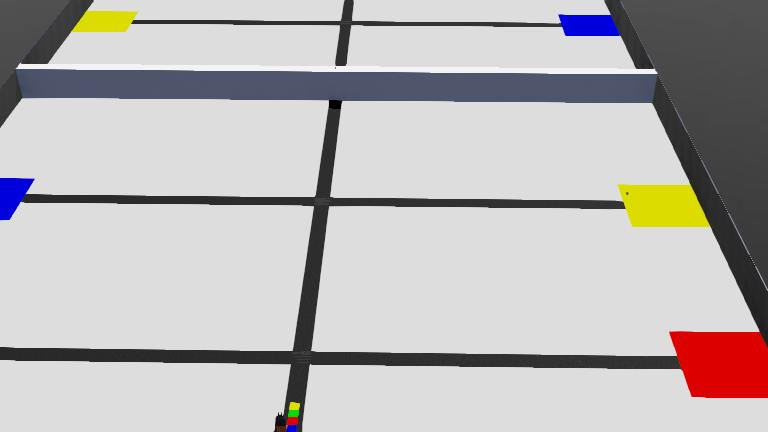
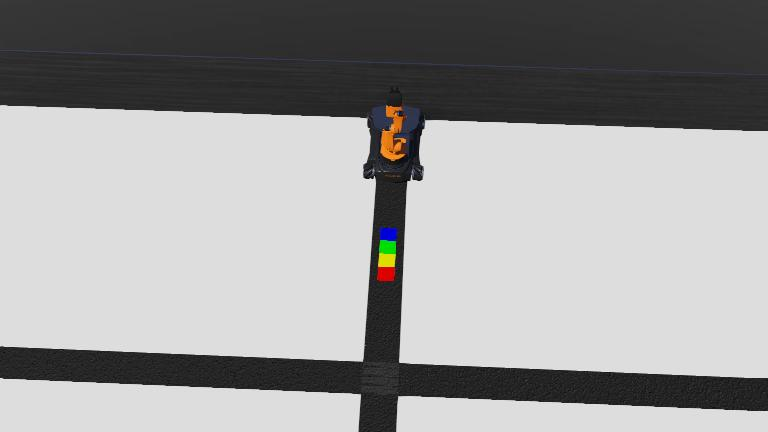
rotate + read color array from text file

diff --git a/controllers/project_cont_test_youbot/project_cont_test_youbot.py b/controllers/project_cont_test_youbot/project_cont_test_youbot.py
@@ -11,8 +11,11 @@ from time import time
 
 
 YOUBOT_MAX_VELOCITY = 12
-YOUBOT_WHEEL_RADUIS =  0.067
-YOUBOT_RADUIS = 0.5
+YOUBOT_WHEEL_RADIUS =  0.05
+LX = 0.228  
+LY = 0.158
+YOUBOT_RADIUS = LX + LY #math.sqrt((LX**2) + (LY**2))
+# YOUBOT_RADUIS = 0.277
 # PID Factors
 Kp = 0.01
 Kd = 0.01
@@ -48,6 +51,9 @@ class RobotController(Supervisor):
         
         self.plane_colors_1 = ['r','g','b','y']
         self.plane_colors_2 = ['r','g','b','y']
+        # توابع لتغير مصفوات الالوان حسب الملف النصي color.txt
+        # self.read_colors_from_file()
+        # self.change_plane_color()
         
         self.sensors = list(map(lambda v: self.getDevice(f"inf{v}"), range(1,5)))
         self.weights = [-1000,1000,1000,-1000]
@@ -88,7 +94,6 @@ class RobotController(Supervisor):
         # plane_node = self.getFromDef("plane_1")
         # color_field = plane_node.getField("appearance").getSFNode().getField("material").getSFNode().getField("emissiveColor").getSFColor()
         # print(color_field)
-        # self.change_plane_color()
         # print(color_field)
         # color_field.setSFColor([1, 0, 0]) 
         # print(color_field)
@@ -110,7 +115,22 @@ class RobotController(Supervisor):
             color = dict_map[self.plane_colors_1[index]]
             self.getFromDef(p).getField("appearance").getSFNode().getField("material").getSFNode().getField("emissiveColor").setSFColor(color)
             
-    
+        for index,p in enumerate([f'plane_{i}' for i in range(5,9)]) :
+            color = dict_map[self.plane_colors_2[index]]
+            self.getFromDef(p).getField("appearance").getSFNode().getField("material").getSFNode().getField("emissiveColor").setSFColor(color)
+            
+            
+    def read_colors_from_file(self):
+        try:
+            with open("color.txt", "r") as file:
+                lines = file.read().strip().splitlines()
+                self.plane_colors_1 = lines[0].split(',')
+                self.plane_colors_2 = lines[1].split(',')
+        except FileNotFoundError:
+            pass
+        
+        
+        
     def get_sensors_value(self):
         value = 0
 
@@ -193,11 +213,10 @@ class RobotController(Supervisor):
         if green != 0 and red != 0 and blue == 0 : self.color.append('yellow') if 'yellow' not in self.color else ...
         if len(r.color) == 4:self.camera.disable()
     
-    def run_motors_for_rotations_by_right_motor(
+    def run_motors_for_rotations_by_motor(
         self,
         rotations,
-        left_velocity,
-        right_velocity
+        velocity,
     ):
         """
             A funtion that will run two motors for specafic velocity
@@ -208,28 +227,35 @@ class RobotController(Supervisor):
         # calculate angle = number_of_rotations / 2 * PI
         angle = rotations * 2 * math.pi
         print('angle: ',angle)
-        # get first value of the sensor
-        curr = self.b_left_w_sensor.getValue()
-        print('curr: ',curr)
-        print('sesor live: ',self.b_left_w_sensor.getValue())
-        # set motors velocities
-        self.turn_cw(right_velocity)
+        
+        curr_front_left = self.f_left_w_sensor.getValue()
+        curr_back_left = self.b_left_w_sensor.getValue()
 
-        # do stepping until the differance between initial sensor value
-        # and current value is less than the required angle
-        while(self.b_left_w_sensor.getValue() - curr < angle):
+        self.turn_cw(velocity)
+
+        while True:
+            current_front_left = self.f_left_w_sensor.getValue()
+            current_back_left = self.b_left_w_sensor.getValue()
+            
+            
+            diff_front_left = current_front_left - curr_front_left
+            diff_back_left = current_back_left - curr_back_left
+
+        
+            avg_angle = (diff_front_left + diff_back_left) /2
+            
+            if abs(avg_angle) >= angle:
+                break
             print('move')
-            print('sesor live move: ',self.b_left_w_sensor.getValue())
+            print('sesor live move: ',avg_angle)
             self.step(self.timestep)
 
-        # reset motors velocities to zero
         self.set_motors_velocity(0,0,0,0)
     
-    def move_distance_by_right_motor(
+    def move_distance_by_motor(
         self,
         distance,
-        left_velocity = YOUBOT_MAX_VELOCITY,
-        right_velocity = YOUBOT_MAX_VELOCITY
+        velocity = YOUBOT_MAX_VELOCITY
     ):
         """
             A funtion that will move the robot by specafic distance,
@@ -237,31 +263,35 @@ class RobotController(Supervisor):
             and will depend on right motor sensor to calculate the distance
         """
 
-        rotations = distance / (2 * math.pi * YOUBOT_WHEEL_RADUIS)
-        self.run_motors_for_rotations_by_right_motor(
+        rotations = distance / (2 * math.pi * YOUBOT_WHEEL_RADIUS)
+        self.run_motors_for_rotations_by_motor(
             rotations,
-            left_velocity,
-            right_velocity
+            velocity
         )
     
-    def turn_angle(self, angle):
+    def turn_angle(self, angle,clockwise=True,velocity = YOUBOT_MAX_VELOCITY):
         """
             A funtion that will turn the robot by specafic angle (in degrees) counterclockwise
         """
-        distance = (2 * math.pi * YOUBOT_RADUIS) / (360 / angle)
-        self.move_distance_by_right_motor(
+        distance = (2 * math.pi * YOUBOT_RADIUS) / (360 / angle)
+        
+        if not clockwise:
+            velocity = -velocity 
+        self.move_distance_by_motor(
             distance,
-            -2,
-            2
+            velocity
         )
+    
+
     def loop(self):
         while(self.step(self.timestep) != -1):
             # pass
             # print(dir(self.camera))
             # self.move_forward(2)
             # self.PID_step(2)
-            self.turn_angle(98)
-            break
+            st=self.turn_angle(90,clockwise=False)
+            if not st:
+                break
             # self.read_array_color() if len(r.color) != 4 else ...
 
 
